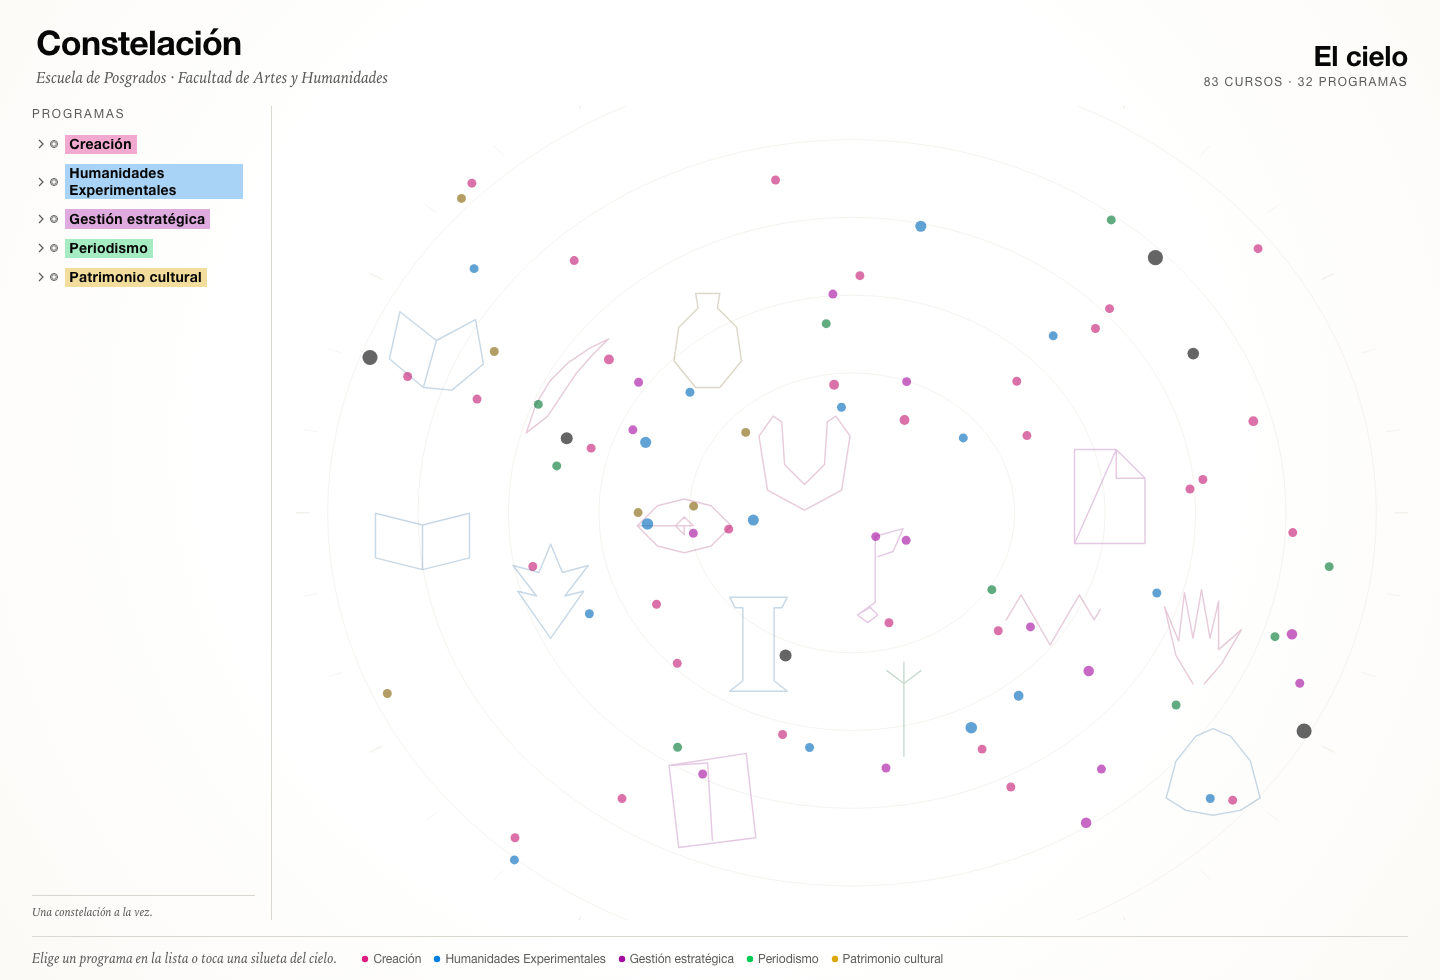
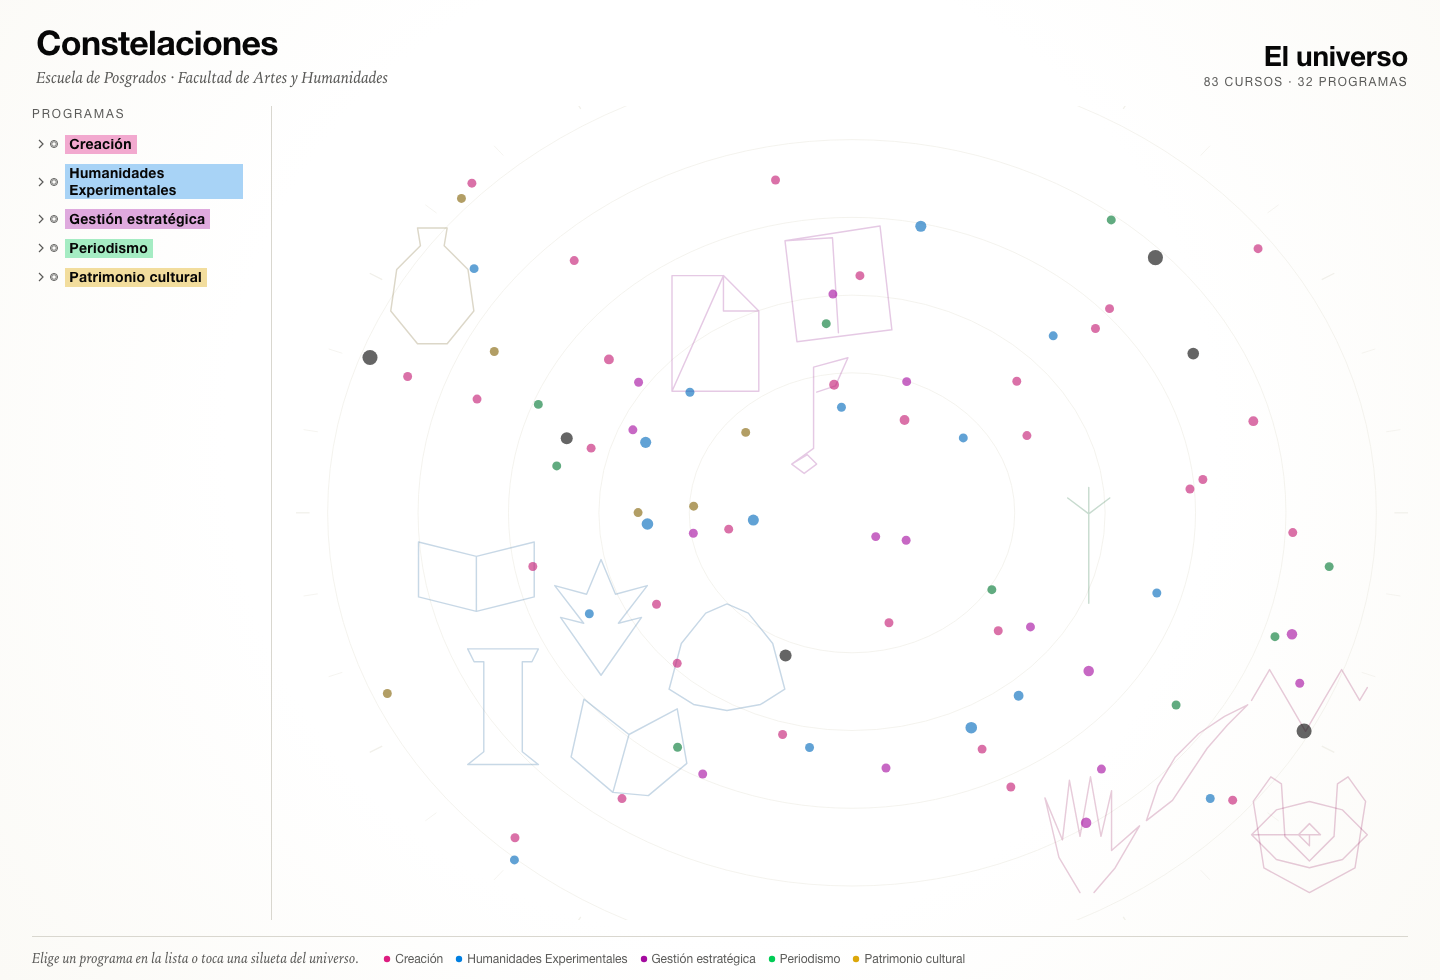
Constelaciones / Universo: nombres, siluetas agrupadas y rótulos legibles
- título «Constelaciones»; la vista general pasa a llamarse «Universo»
- fuera la nota «una constelación a la vez»
- siluetas de 128 px agrupadas por maestría, con roce de hasta 15 %
- rótulo de silueta con la marca de familia, 13 px y posición fija bajo la figura
- 25 pruebas

diff --git a/src/lib/domain/compose.ts b/src/lib/domain/compose.ts
@@ -281,19 +281,21 @@ function componerFamilia(
 }
 
 /**
- * Sin selección, el cielo muestra todas las siluetas sueltas: ni anillo ni
- * rejilla, porque así no se ordena el cielo. Se siembran al azar y se separan
- * hasta que ninguna pisa a otra.
+ * Sin selección, el universo muestra todas las siluetas: las de una misma
+ * maestría se agrupan —son parientes— y el conjunto queda sembrado al azar.
+ * Se permite un solape pequeño: las figuras se tocan sin confundirse.
  */
 function siluetasDelCielo(ancho: number, alto: number): Silueta[] {
-  const ids = Object.values(curriculum.programas)
-    .filter((p) => p.tipo === 'enfasis' || (p.tipo === 'maestria' && hijosDe(p.id).length === 0))
-    .map((p) => p.id)
-    .filter((id) => figureOf(id, curriculum.programas[id]?.padreId ?? null))
+  const programas = Object.values(curriculum.programas).filter(
+    (p) => p.tipo === 'enfasis' || (p.tipo === 'maestria' && hijosDe(p.id).length === 0),
+  )
+  const ids = programas.map((p) => p.id).filter((id) => figureOf(id, curriculum.programas[id]?.padreId ?? null))
 
-  const lado = 104
-  const margen = 34
-  const minD = 150
+  const lado = 128
+  const margen = 30
+  const minD = lado * 1.16 // se rozan, no se pisan
+  const anclaD = 400
+
   let semilla = 20261030
   const azar = () => {
     semilla |= 0
@@ -308,12 +310,47 @@ function siluetasDelCielo(ancho: number, alto: number): Silueta[] {
   const minY = margen + lado / 2
   const maxY = alto - margen - lado / 2
 
-  const centros: Punto[] = ids.map(() => [
+  // una ancla por maestría, separadas entre sí
+  const familias = [...new Set(programas.map((p) => (p.tipo === 'enfasis' ? p.padreId! : p.id)))]
+  const anclas = new Map<string, Punto>()
+  const libres: Punto[] = familias.map(() => [
     minX + azar() * (maxX - minX),
     minY + azar() * (maxY - minY),
   ])
+  for (let paso = 0; paso < 220; paso++) {
+    for (let i = 0; i < libres.length; i++) {
+      for (let j = i + 1; j < libres.length; j++) {
+        const a = libres[i]
+        const b = libres[j]
+        const dx = a[0] - b[0]
+        const dy = a[1] - b[1]
+        const d = Math.hypot(dx, dy) || 0.01
+        if (d >= anclaD) continue
+        const f = ((anclaD - d) / d) * 0.2
+        a[0] += dx * f
+        a[1] += dy * f
+        b[0] -= dx * f
+        b[1] -= dy * f
+      }
+    }
+    for (const c of libres) {
+      c[0] = Math.min(maxX, Math.max(minX, c[0]))
+      c[1] = Math.min(maxY, Math.max(minY, c[1]))
+    }
+  }
+  familias.forEach((f, i) => anclas.set(f, libres[i]))
 
-  for (let paso = 0; paso < 260; paso++) {
+  // cada figura arranca cerca de su ancla
+  const centros: Punto[] = programas.map((p) => {
+    const a = anclas.get(p.tipo === 'enfasis' ? p.padreId! : p.id)!
+    return [
+      Math.min(maxX, Math.max(minX, a[0] + (azar() - 0.5) * 150)),
+      Math.min(maxY, Math.max(minY, a[1] + (azar() - 0.5) * 140)),
+    ]
+  })
+
+  // se separan sin alejarse de su familia
+  for (let paso = 0; paso < 420; paso++) {
     for (let i = 0; i < centros.length; i++) {
       for (let j = i + 1; j < centros.length; j++) {
         const a = centros[i]
@@ -322,14 +359,19 @@ function siluetasDelCielo(ancho: number, alto: number): Silueta[] {
         const dy = a[1] - b[1]
         const d = Math.hypot(dx, dy) || 0.01
         if (d >= minD) continue
-        const empuje = ((minD - d) / d) * 0.25
-        a[0] += dx * empuje
-        a[1] += dy * empuje
-        b[0] -= dx * empuje
-        b[1] -= dy * empuje
+        const f = ((minD - d) / d) * 0.3
+        a[0] += dx * f
+        a[1] += dy * f
+        b[0] -= dx * f
+        b[1] -= dy * f
       }
     }
-    for (const c of centros) {
+    for (let i = 0; i < centros.length; i++) {
+      const p = programas[i]
+      const a = anclas.get(p.tipo === 'enfasis' ? p.padreId! : p.id)!
+      const c = centros[i]
+      c[0] += (a[0] - c[0]) * 0.008
+      c[1] += (a[1] - c[1]) * 0.008
       c[0] = Math.min(maxX, Math.max(minX, c[0]))
       c[1] = Math.min(maxY, Math.max(minY, c[1]))
     }

diff --git a/src/lib/components/SkyStage.svelte b/src/lib/components/SkyStage.svelte
@@ -5,7 +5,7 @@
   import type { Punto } from '../domain/figures'
   import { polylinePath } from '../viz/geometry'
   import { finDelPlan, planViaje, posicionEn, prefiereMenosMovimiento } from '../viz/motion'
-  import { colorDe, radioDe } from '../viz/palette'
+  import { colorDe, marcaDe, radioDe } from '../viz/palette'
   import StarGlyph from './StarGlyph.svelte'
 
   interface Props {
@@ -84,7 +84,7 @@
   class="cielo"
   viewBox="0 0 {escena.ancho} {escena.alto}"
   role="img"
-  aria-label="Cielo de cursos de la Escuela: {escena.estrellas.length} cursos, {seleccion.length} programas seleccionados"
+  aria-label="Universo de cursos de la Escuela: {escena.estrellas.length} cursos, {seleccion.length} programas seleccionados"
   preserveAspectRatio="xMidYMid meet"
 >
   <g class="retícula" aria-hidden="true">
@@ -109,6 +109,11 @@
     <g class="selector-siluetas">
       {#each escena.siluetas as s (s.programaId)}
         {@const p = curriculum.programas[s.programaId]}
+        {@const bx = s.puntos.reduce((a, q) => a + q[0], 0) / s.puntos.length}
+        {@const by = Math.max(...s.puntos.map((q) => q[1]))}
+        {@const anchoEt = Math.max(64, p.nombreCorto.length * 8.4 + 22)}
+        {@const etY = Math.min(by + 12, escena.alto - 26)}
+        {@const etX = Math.min(Math.max(bx, anchoEt / 2 + 8), escena.ancho - anchoEt / 2 - 8)}
         <g
           class="silueta-selector"
           class:activa={siluetaHover === s.programaId}
@@ -135,10 +140,18 @@
             fill="transparent"
           />
           <path d={polylinePath(s.puntos)} fill="none" stroke={colorDe(s.programaId)} />
-          <text
-            x={s.puntos.reduce((a, q) => a + q[0], 0) / s.puntos.length}
-            y={s.puntos.reduce((a, q) => a + q[1], 0) / s.puntos.length + 62}
-            class="nombre-silueta">{p.nombreCorto}</text>
+          <g class="etiqueta">
+            <rect
+              x={etX - anchoEt / 2}
+              y={etY}
+              width={anchoEt}
+              height="22"
+              class="fondo-etiqueta {marcaDe(s.programaId)}"
+            />
+            <text x={etX} y={etY + 15.5} class="nombre-silueta">
+              {p.nombreCorto}
+            </text>
+          </g>
         </g>
       {/each}
     </g>
@@ -271,22 +284,27 @@
     stroke-width: 2.2;
   }
 
-  .nombre-silueta {
-    font-family: var(--ff-sans);
-    font-size: 12px;
-    letter-spacing: 0.14em;
-    text-transform: uppercase;
-    fill: var(--c-ink-2);
-    text-anchor: middle;
+  .etiqueta {
     opacity: 0;
     transition: opacity var(--t-fast) var(--ease);
     pointer-events: none;
   }
 
-  .silueta-selector.activa .nombre-silueta,
-  .silueta-selector:focus-visible .nombre-silueta {
+  .silueta-selector.activa .etiqueta,
+  .silueta-selector:focus-visible .etiqueta {
     opacity: 1;
   }
+
+  .nombre-silueta {
+    font-family: var(--ff-sans);
+    font-size: 13px;
+    font-weight: 600;
+    letter-spacing: 0.06em;
+    fill: var(--c-ink);
+    text-anchor: middle;
+  }
+
+  /* el relleno lo pone la clase hl-* de app.css, para no pisarla con el scope */
 
   .silueta {
     stroke-width: var(--stroke-const);

diff --git a/src/App.svelte b/src/App.svelte
@@ -76,7 +76,7 @@
 <main class="lienzo">
   <header class="cabecera">
     <div class="marca">
-      <h1>Constelación</h1>
+      <h1>Constelaciones</h1>
       <p>Escuela de Posgrados · Facultad de Artes y Humanidades</p>
     </div>
 
@@ -90,7 +90,7 @@
           <line x1="0" y1="2" x2="60" y2="2" stroke={actual.color} stroke-width="3" />
         </svg>
       {:else}
-        <p class="programa">El cielo</p>
+        <p class="programa">El universo</p>
         <p class="detalle">{totalCursos} cursos · {totalProgramas} programas</p>
       {/if}
     </div>
@@ -121,9 +121,9 @@
   <footer class="pie">
     <div class="izquierda">
       {#if seleccion.length > 0}
-        <button class="limpiar" onclick={limpiar}>Volver al cielo</button>
+        <button class="limpiar" onclick={limpiar}>Volver al universo</button>
       {:else}
-        <span class="pista">Elige un programa en la lista o toca una silueta del cielo.</span>
+        <span class="pista">Elige un programa en la lista o toca una silueta del universo.</span>
         <ul class="familias">
           {#each maestrias as m (m.id)}
             <li>

diff --git a/src/lib/components/ProgramPicker.svelte b/src/lib/components/ProgramPicker.svelte
@@ -96,7 +96,6 @@
       </li>
     {/each}
   </ul>
-  <p class="nota">Una constelación a la vez.</p>
 </nav>
 
 <style>
@@ -230,15 +229,6 @@
   .punto.lleno {
     background: var(--c-ink);
     border-color: transparent;
-  }
-
-  .nota {
-    font-family: var(--ff-serif);
-    font-style: italic;
-    font-size: var(--fz-xs);
-    color: var(--c-ink-3);
-    padding-top: var(--sp-2);
-    border-top: 1px solid var(--c-rule);
   }
 
   @media (max-width: 900px) {

diff --git a/src/app.css b/src/app.css
@@ -83,19 +83,25 @@ button {
 
 .hl-creacion {
   background: var(--hl-creacion);
+  fill: var(--hl-creacion);
 }
 .hl-he {
   background: var(--hl-he);
+  fill: var(--hl-he);
 }
 .hl-gepc {
   background: var(--hl-gepc);
+  fill: var(--hl-gepc);
 }
 .hl-perio {
   background: var(--hl-perio);
+  fill: var(--hl-perio);
 }
 .hl-patrim {
   background: var(--hl-patrim);
+  fill: var(--hl-patrim);
 }
 .hl-ink {
   background: var(--hl-ink);
+  fill: var(--hl-ink);
 }

diff --git a/docs/constellation.md b/docs/constellation.md
@@ -90,7 +90,7 @@ especialización. Así la escala menor no inventa datos ni duplica cursos.
 
 ---
 
-## 4. El cielo se pliega
+## 4. El universo se pliega
 
 Dos estados, no dos modos: **nebulosa** (nada seleccionado) y **constelación** (uno o dos programas).
 Al elegir, las estrellas del programa **viajan** a su figura. Al deseleccionar, vuelven a su sitio.
@@ -118,13 +118,17 @@ Sin selección, los 83 cursos forman un cielo **al azar**, no un diagrama:
   posición descansa.
 - Se calcula una vez en build (`atlas.json`) con semilla fija. En pantalla nadie simula: se lee.
 
-**Las siluetas también son selector.** Repartidas por el cielo —al azar sembrado, sin pisarse— se
+**Las siluetas también son selector.** Repartidas por el universo —al azar sembrado, sin pisarse— se
 dibujan las quince figuras: los trece énfasis y las dos maestrías sin énfasis. Sin estrellas: solo el
 trazo. Un clic en una silueta abre ese programa. Es el segundo camino de entrada, además de la lista
 de la izquierda, y el que hace que el cielo se pueda leer sin menús.
 
-Nada de anillos ni de rejillas: un cielo no ordena sus figuras en círculo. Se siembran y se separan
-hasta que ninguna toca a otra.
+Nada de anillos ni de rejillas: un cielo no ordena sus figuras en círculo. Las de una misma maestría
+se agrupan —son parientes— y el conjunto se siembra al azar. Se permiten roces de hasta un 15 %: las
+figuras se tocan, no se confunden, y el roce dice algo de la flexibilidad entre programas.
+
+El nombre aparece al pasar el cursor, grande y con la marca de la familia de fondo. Un rótulo gris de
+12 px sobre un trazo fino no se leía.
 
 ### 4.2 Una constelación
 

diff --git a/docs/diary.md b/docs/diary.md
@@ -177,3 +177,17 @@ separan hasta no pisarse: un cielo no ordena sus figuras en círculo.
 transparente de casi el doble de su radio y cada silueta un relleno transparente más un círculo de
 46 px en el centro. Es una regla del sistema de diseño, no un parche: toda forma interactiva tiene
 zona de contacto.
+
+---
+
+## 2026-10-30 · Universo
+
+**Nombres.** La app es «Constelaciones» y la vista general es el **Universo**. «Cielo» queda como
+metáfora en los documentos, no como etiqueta de interfaz.
+
+**Siluetas: más grandes, emparentadas y con roce.** Suben a 128 px, se agrupan por maestría y se
+permiten solapes de hasta un 15 %: dos figuras se tocan sin confundirse. El roce es el argumento de
+flexibilidad, no un defecto del empaquetado.
+
+**El rótulo se lee.** Era gris, de 12 px y flotaba donde cayera. Ahora va en tinta sobre la marca de
+la familia, a 13 px, siempre bajo la figura y acotado al borde del escenario.

diff --git a/docs/design-system.md b/docs/design-system.md
@@ -101,8 +101,10 @@ gritar: sirve para reconocer de un vistazo a qué familia pertenece un bloque.
 Reglas:
 
 - **Es un fondo, nunca texto.** Sobre la marca siempre va tinta `#070707`.
-- **Solo títulos y rótulos cortos**: nombre de maestría, título de periodo. Nunca párrafos, nunca
-  texto de cuerpo, nunca dos marcas en la misma línea.
+- **Solo títulos y rótulos cortos**: nombre de maestría, título de periodo, rótulo de una figura al
+  pasar el cursor. Nunca párrafos, nunca texto de cuerpo, nunca dos marcas en la misma línea.
+- En SVG la marca es un `rect` con la clase `.hl-*` (que fija `fill` además de `background`), y el
+  texto encima va en tinta.
 - Se aplica con la clase `.marca` más `.hl-<familia>`; el aire es `0.08em 0.34em`. Nada de estilos
   inline.
 - Nunca es el único portador de significado: el nombre del programa y la palabra «periodo» siguen

diff --git a/docs/plan.md b/docs/plan.md
@@ -126,6 +126,10 @@ brazos; `prefers-reduced-motion` salta al estado final.
 - [x] Marca de familia en el selector y en los títulos de periodo (`--hl-*`)
 - [x] Siluetas repartidas por el cielo (azar sembrado, sin solaparse): segundo selector, sin estrellas
 - [x] Zonas de contacto: el blanco no es el trazo sino el disco completo
+- [x] Título «Constelaciones»; la vista general se llama **Universo**
+- [x] Siluetas más grandes, agrupadas por maestría y con roce permitido
+- [x] Rótulo de la silueta con la marca de familia, 13 px y posición fija bajo la figura
+- [x] Fuera la nota «una constelación a la vez»
 
 - [x] **Programa especializado en dos periodos** (dos cursos por periodo)
 - [x] **Maestría a secas**: plan marco con casillas abiertas, y los énfasis como rutas opcionales
